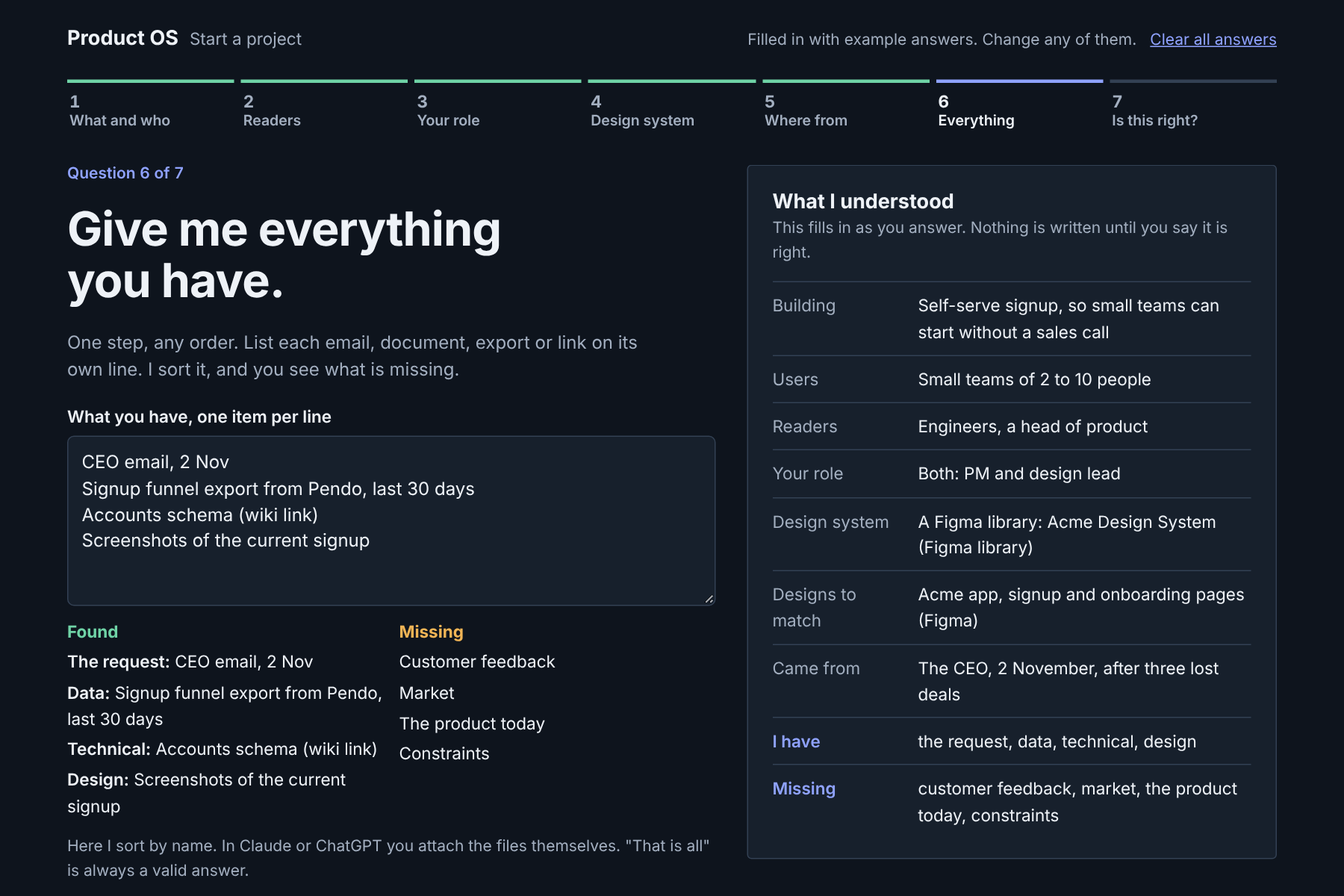
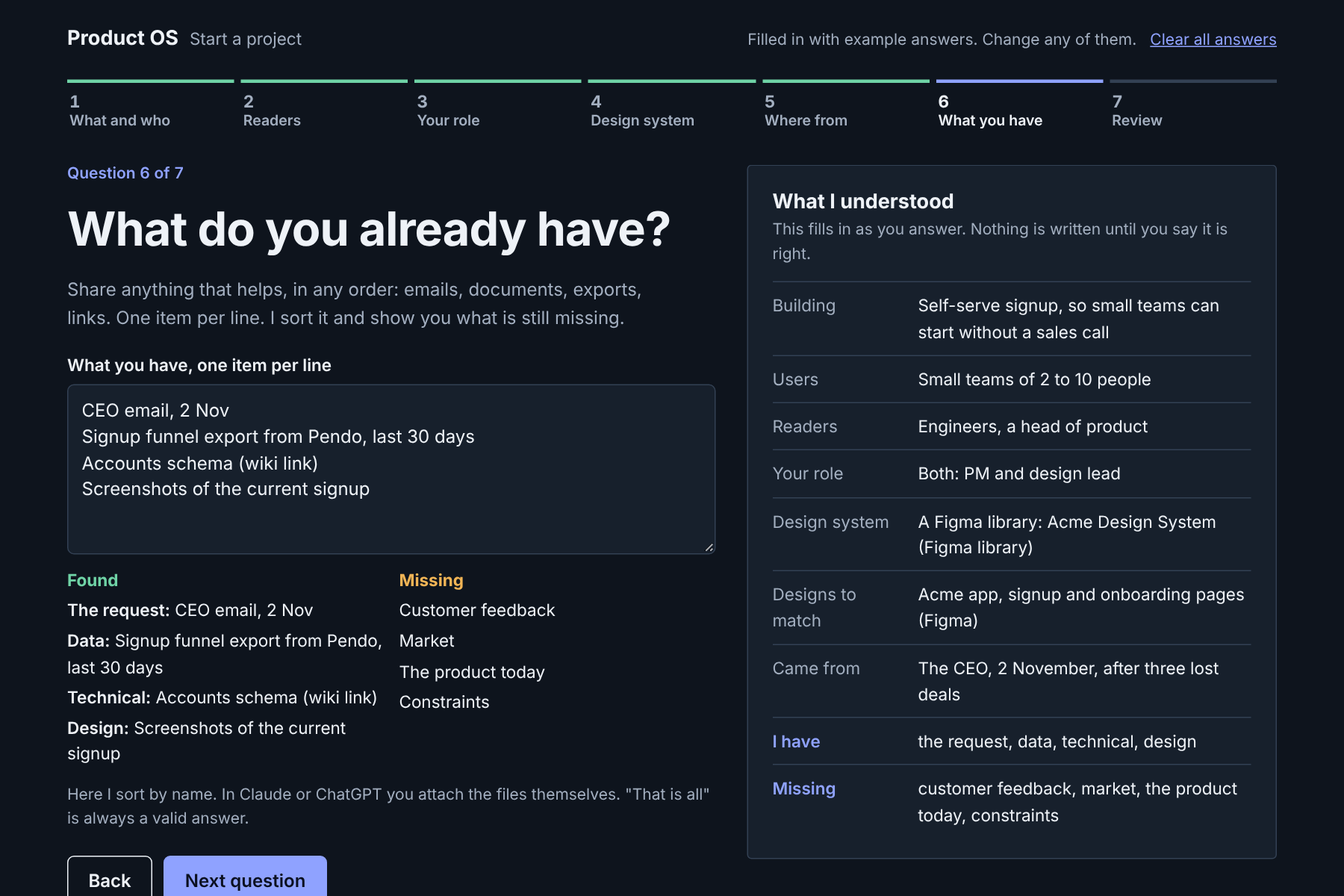
Ask as an invitation; the visual start ends on a review screen
Question 6 is 'What do you already have?' and question 7 is 'Does this
look right?'. The visual start's last screen shows four numbers, what it
noticed, a table of every document, and what it understood. New header
image of that screen on a desktop and a phone.

Claude-Session: https://claude.ai/code/session_015CywGHW2jcfc6hkS8RfYRh

diff --git a/artifact/product-os-start.html b/artifact/product-os-start.html
@@ -86,7 +86,10 @@ textarea { min-height: 9.5rem; resize: vertical; }
 .copied { margin: 0; font-weight: 600; color: var(--found); min-height: 1.5em; }
 
 .brief { background: var(--sheet); border: 1px solid var(--line); border-radius: 4px; padding: 22px 22px 18px; position: sticky; top: 16px; min-width: 0; }
-.brief h2 { margin: 0 0 2px; font: 700 1.125rem/1.2 var(--display); }
+.brief summary { list-style: none; display: flex; align-items: baseline; justify-content: space-between; gap: 12px; margin-bottom: 2px; }
+.brief summary::-webkit-details-marker { display: none; }
+.brief h2 { margin: 0; font: 700 1.125rem/1.2 var(--display); }
+#briefCount { display: none; font-size: 0.875rem; color: var(--muted); }
 .brief .sub { margin: 0 0 14px; font-size: 0.875rem; color: var(--muted); }
 .brief dl { margin: 0; display: flex; flex-direction: column; }
 .brief .row { display: grid; grid-template-columns: 7.5rem minmax(0, 1fr); gap: 10px; padding: 9px 0; border-top: 1px solid var(--line); font-size: 0.9375rem; }
@@ -94,9 +97,42 @@ textarea { min-height: 9.5rem; resize: vertical; }
 .brief dd { margin: 0; overflow-wrap: anywhere; }
 .brief dd.empty { color: var(--muted); font-style: italic; }
 .brief .row.now dt { color: var(--accent); font-weight: 600; }
+.main.overview { grid-template-columns: minmax(0, 1fr); }
+.kpis { list-style: none; margin: 0; padding: 0; display: grid; grid-template-columns: repeat(4, minmax(0, 1fr)); gap: 12px; }
+.kpis li { background: var(--sheet); border: 1px solid var(--line); border-radius: 6px; padding: 14px 16px; display: flex; flex-direction: column; gap: 2px; }
+.kpis b { font: 700 1.625rem/1.1 var(--display); font-variant-numeric: tabular-nums; }
+.kpis span { font-size: 0.875rem; color: var(--muted); }
+.notes h2, .docs h2 { margin: 0 0 8px; font: 700 1rem/1.3 var(--display); }
+.notes ul { list-style: none; margin: 0; padding: 0; display: grid; grid-template-columns: repeat(3, minmax(0, 1fr)); gap: 12px; }
+.notes li { border-left: 3px solid var(--found); background: var(--sheet); border-radius: 0 6px 6px 0; padding: 10px 14px; font-size: 0.9375rem; }
+.notes li.warn { border-left-color: var(--missing); }
+.ov { display: grid; grid-template-columns: minmax(0, 1.25fr) minmax(0, 0.75fr); gap: 28px; align-items: start; }
+.ov .brief { position: static; padding: 18px 20px 12px; }
+.ov .brief .row { padding: 7px 0; font-size: 0.875rem; grid-template-columns: 6.5rem minmax(0, 1fr); }
+.docs table { width: 100%; border-collapse: collapse; background: var(--sheet); border: 1px solid var(--line); border-radius: 6px; font-size: 0.9375rem; }
+.docs th { text-align: left; font-weight: 600; font-size: 0.8125rem; color: var(--muted); padding: 9px 14px; border-bottom: 1px solid var(--line); }
+.docs td { padding: 7px 14px; border-top: 1px solid var(--line); }
+.docs tbody tr:first-child td { border-top: 0; }
+.docs td:first-child { font-weight: 600; }
+.docs td:last-child { white-space: nowrap; color: var(--muted); font-variant-numeric: tabular-nums; }
+.docs .hint { margin-top: 10px; }
 @media (max-width: 820px) {
   .main { grid-template-columns: minmax(0, 1fr); }
-  .brief { position: static; }
+  .brief { position: static; padding: 14px 16px; }
+  .brief summary { cursor: pointer; margin: 0; }
+  .brief[open] summary { margin-bottom: 8px; }
+  #briefCount { display: inline; }
+  #briefCount::after { content: "  ▾"; }
+  .brief[open] #briefCount::after { content: "  ▴"; }
+  .kpis { grid-template-columns: repeat(2, minmax(0, 1fr)); }
+  .notes ul, .ov { grid-template-columns: minmax(0, 1fr); }
+  .ov { order: 2; gap: 16px; } .notes { order: 3; } .after { order: 4; }
+  .docs thead { display: none; }
+  .docs tr { display: grid; grid-template-columns: minmax(0, 1fr) auto; column-gap: 12px; padding: 9px 14px; border-top: 1px solid var(--line); }
+  .docs tbody tr:first-child { border-top: 0; }
+  .docs td { padding: 0; border: 0; }
+  .docs td:nth-child(2) { grid-row: 2; font-size: 0.875rem; color: var(--muted); }
+  .docs td:nth-child(3) { grid-row: 1 / span 2; grid-column: 2; align-self: center; }
   .steps span { display: none; }
 }
 @media (max-width: 480px) { .sorted { grid-template-columns: minmax(0, 1fr); } .brief .row { grid-template-columns: minmax(0, 1fr); gap: 2px; } }
@@ -112,7 +148,7 @@ textarea { min-height: 9.5rem; resize: vertical; }
 
   <ol class="steps" id="steps" aria-label="The seven start questions"></ol>
 
-  <div class="main">
+  <div class="main" id="main">
     <form class="ask" id="ask" novalidate>
       <p class="place" id="place"></p>
       <h1 id="q"></h1>
@@ -126,11 +162,11 @@ textarea { min-height: 9.5rem; resize: vertical; }
       <p class="copied" id="copied" role="status" aria-live="polite"></p>
     </form>
 
-    <aside class="brief" aria-label="What Product OS understood so far">
-      <h2>What I understood</h2>
+    <div id="briefHome"><details class="brief" id="briefBox" open>
+      <summary><h2>What I understood</h2><span id="briefCount"></span></summary>
       <p class="sub">This fills in as you answer. Nothing is written until you say it is right.</p>
       <dl id="brief"></dl>
-    </aside>
+    </details></div>
   </div>
 </div>
 
@@ -187,6 +223,7 @@ textarea { min-height: 9.5rem; resize: vertical; }
   function load() { try { var v = localStorage.getItem(KEY); return v ? JSON.parse(v) : null; } catch (e) { return null; } }
   function save() { try { localStorage.setItem(KEY, JSON.stringify(state)); } catch (e) { /* storage is optional */ } }
   function esc(s) { return String(s).replace(/[&<>"]/g, function (c) { return { "&": "&amp;", "<": "&lt;", ">": "&gt;", '"': "&quot;" }[c]; }); }
+  function listAnd(a) { return a.length < 2 ? a.join("") : a.slice(0, -1).join(", ") + " and " + a[a.length - 1]; }
   function cap(t) { return t ? t.charAt(0).toUpperCase() + t.slice(1) : t; }
   function label(list, id) { for (var i = 0; i < list.length; i++) if (list[i][0] === id) return list[i][1]; return ""; }
 
@@ -212,6 +249,36 @@ textarea { min-height: 9.5rem; resize: vertical; }
     if (state.readers.indexOf("designers") > -1) docs = docs.filter(function (d) { return d !== "Design brief" && d !== "Low-fidelity wireframes"; });
     return docs;
   }
+  var PHASE = { 1: "1 · Intake", 4: "4 · Define", 5: "5 · Design", 6: "6 · Review", 7: "7 · Deliver" };
+  function docList() {
+    var r = state.readers, eng = r.indexOf("engineers") > -1, team = eng ? "Engineers" : "You", out = [];
+    var briefFor = r.filter(function (x) { return x === "executives" || x === "client" || x === "product-lead"; }).map(function (x) { return x === "executives" ? "Executives" : x === "client" ? "Client" : "Head of product"; });
+    out.push(["Intake", "You", 1], ["PRD", team, 4], ["Project brief", eng ? "Engineers" + (briefFor.length ? ", " + briefFor.join(", ").toLowerCase() : "") : (briefFor.join(", ") || "You"), 4]);
+    out.push(["User flows", team, 5], ["Final design", team, 5], ["End-to-end prototype", r.indexOf("client") > -1 && !eng ? "Client" : team, 5]);
+    out.push(["UX writing guide", team, 6], ["Epic and tickets", team, 7]);
+    if (r.indexOf("product-lead") > -1) out.push(["Project plan", "Head of product", 4], ["Gantt chart", "Head of product", 4]);
+    if (r.indexOf("designers") > -1) out.push(["Design brief", "Designers", 5], ["Low-fidelity wireframes", "Designers", 5]);
+    var ph = { "Project plan": 4, "Gantt chart": 4, "Metrics framework": 4, "Design brief": 5, "Low-fidelity wireframes": 5, "Design critique": 6 };
+    mineList().forEach(function (d) { out.push([d, "You", ph[d] || 4]); });
+    out.sort(function (x, y) { return x[2] - y[2]; });
+    return out.map(function (d) { return [d[0], d[1], PHASE[d[2]]]; });
+  }
+  function kpis(s, docs) {
+    var answered = [state.building && state.users, state.readers.length, state.role, state.system, state.origin, s.count].filter(Boolean).length;
+    var groups = state.readers.filter(function (x) { return x !== "self"; }).length;
+    return [[answered + " of 6", "questions answered"], [(8 - s.missing.length) + " of 8", "kinds of material found"], [docs.length, "documents to be made"], [groups, groups === 1 ? "reader group" : "reader groups"]];
+  }
+  function notes(s) {
+    var out = [], r = state.readers;
+    if (s.missing.length) out.push(["warn", cap(listAnd(s.missing).toLowerCase()) + (s.missing.length === 1 ? " is" : " are") + " missing. Each gap becomes a named TBD, never a guess."]);
+    else out.push(["ok", "You shared material of every kind."]);
+    if (r.indexOf("product-lead") > -1) out.push(["ok", "A head of product reads this. The project plan and Gantt chart are linked from the epic."]);
+    else if (r.indexOf("engineers") > -1) out.push(["ok", "Engineers read this. They get one link: the epic."]);
+    else out.push(["ok", "No engineers read this yet. The epic and tickets are still written at Deliver."]);
+    if (state.system && state.system !== "none") out.push(["ok", "Every design follows " + (state.systemRef || label(SYSTEMS, state.system).toLowerCase()) + "."]);
+    else out.push(["warn", "No design system yet. Designs use plain, accessible defaults."]);
+    return out;
+  }
   function systemText() {
     if (!state.system) return "";
     if (state.system === "none") return "None yet. Designs use plain, accessible defaults.";
@@ -234,7 +301,7 @@ textarea { min-height: 9.5rem; resize: vertical; }
     { short: "Where from", q: "Where did this come from?", why: "Who asked, when, and why now: a customer, an executive, a data signal, a competitor move.",
       done: function () { return state.origin; },
       fields: function () { return text("origin", "Who asked, when, and why now", state.origin); } },
-    { short: "Everything", q: "Give me everything you have.", why: "One step, any order. List each email, document, export or link on its own line. I sort it, and you see what is missing.",
+    { short: "What you have", q: "What do you already have?", why: "Share anything that helps, in any order: emails, documents, exports, links. One item per line. I sort it and show you what is still missing.",
       done: function () { return true; },
       fields: function () {
         var s = sortEverything();
@@ -245,15 +312,17 @@ textarea { min-height: 9.5rem; resize: vertical; }
           (s.missing.map(function (m) { return "<li>" + m + "</li>"; }).join("") || "<li>Nothing.</li>") + "</ul></div></div>" +
           '<p class="hint">Here I sort by name. In Claude or ChatGPT you attach the files themselves. "That is all" is always a valid answer.</p>';
       } },
-    { short: "Is this right?", q: "Is this right?", why: "Read what I understood on the right. Below is what I will make from it. Nothing is written before your yes.",
+    { short: "Review", q: "Does this look right?", why: "Here is the project as I understood it, and what I will make from it. Nothing is written before your yes.",
       done: function () { return false; },
       fields: function () {
-        var mine = mineList();
-        return '<div class="make"><div><h2>For the team</h2>' + teamLines().map(function (l) { return "<p>" + esc(l) + "</p>"; }).join("") + "</div>" +
-          "<div><h2>For you</h2><p>" + (mine.length ? esc(mine.join(", ")) : "Nothing else. Only what the readers need.") + "</p></div>" +
-          "<div><h2>Not made</h2><p>RACI chart, risk register, UX review. Ask for any of them, any time.</p></div></div>" +
-          '<p class="hint">Copy the brief, then paste it into your Product OS project in Claude or ChatGPT. It starts at intake, with these answers already saved.</p>' +
-          '<div class="nav"><a class="btn" href="https://claude.ai/new" target="_blank" rel="noopener">Open Claude</a><a class="btn" href="https://chatgpt.com/" target="_blank" rel="noopener">Open ChatGPT</a></div>';
+        var s = sortEverything(), docs = docList(), k = kpis(s, docs);
+        return '<ul class="kpis">' + k.map(function (t) { return "<li><b>" + t[0] + "</b><span>" + t[1] + "</span></li>"; }).join("") + "</ul>" +
+          '<section class="notes" aria-label="What I noticed"><h2>What I noticed</h2><ul>' + notes(s).map(function (n) { return '<li class="' + n[0] + '">' + esc(n[1]) + "</li>"; }).join("") + "</ul></section>" +
+          '<div class="ov"><section class="docs"><h2>What I will make</h2><table><thead><tr><th scope="col">Document</th><th scope="col">For</th><th scope="col">Phase</th></tr></thead><tbody>' +
+          docs.map(function (d) { return "<tr><td>" + d[0] + "</td><td>" + d[1] + "</td><td>" + d[2] + "</td></tr>"; }).join("") +
+          '</tbody></table><p class="hint">Not made: RACI chart, risk register, UX review. Ask for any of them, any time.</p></section><div id="briefSlot"></div></div>' +
+          '<p class="hint after">Copy the brief, then paste it into your Product OS project in Claude or ChatGPT. It starts at intake, with these answers already saved.</p>' +
+          '<div class="nav after"><a class="btn" href="https://claude.ai/new" target="_blank" rel="noopener">Open Claude</a><a class="btn" href="https://chatgpt.com/" target="_blank" rel="noopener">Open ChatGPT</a></div>';
       } }
   ];
 
@@ -276,6 +345,8 @@ textarea { min-height: 9.5rem; resize: vertical; }
       ["I have", s.count ? (have.join(", ") || "other material") : "", 5],
       ["Missing", s.count ? (s.missing.join(", ").toLowerCase() || "nothing") : "", 5]
     ];
+    var filled = rows.slice(0, 8).filter(function (r) { return r[1]; }).length;
+    document.getElementById("briefCount").textContent = filled + " of 8 filled in";
     document.getElementById("brief").innerHTML = rows.map(function (r) {
       return '<div class="row' + (r[2] === step ? " now" : "") + '"><dt>' + r[0] + "</dt><dd" + (r[1] ? "" : ' class="empty"') + ">" + (r[1] ? esc(r[1]) : "Not answered yet") + "</dd></div>";
     }).join("");
@@ -292,6 +363,9 @@ textarea { min-height: 9.5rem; resize: vertical; }
     document.getElementById("q").textContent = s.q;
     document.getElementById("why").textContent = s.why;
     document.getElementById("fields").innerHTML = s.fields();
+    var box = document.getElementById("briefBox"), slot = document.getElementById("briefSlot");
+    (slot || document.getElementById("briefHome")).appendChild(box);
+    document.getElementById("main").className = "main" + (last ? " overview" : "");
     document.getElementById("back").disabled = step === 0;
     document.getElementById("next").textContent = last ? "Yes, copy the brief" : "Next question";
     document.getElementById("hint").textContent = last ? "" : "\"I don't know yet\" is a valid answer. Leave it empty and go on.";
@@ -362,6 +436,14 @@ textarea { min-height: 9.5rem; resize: vertical; }
   });
   document.getElementById("back").addEventListener("click", function () { if (step > 0) { step--; render(); } });
   document.getElementById("steps").addEventListener("click", function (e) { var b = e.target.closest("button"); if (b) { step = +b.getAttribute("data-step"); render(); } });
+  var wide = window.matchMedia("(min-width: 821px)"), userOpen = false;
+  function syncBrief() { document.getElementById("briefBox").open = wide.matches || userOpen; }
+  document.getElementById("briefBox").querySelector("summary").addEventListener("click", function (e) {
+    if (wide.matches) { e.preventDefault(); return; }
+    userOpen = !document.getElementById("briefBox").open;
+  });
+  if (wide.addEventListener) wide.addEventListener("change", syncBrief);
+  syncBrief();
   document.getElementById("clear").addEventListener("click", function () { state = copy(EMPTY); step = 0; save(); render(); document.getElementById("building").focus(); });
   render();
 })();

diff --git a/README.md b/README.md
@@ -4,9 +4,9 @@
 
 [![License: MIT](https://img.shields.io/badge/License-MIT-blue.svg)](LICENSE)
 
-![Product OS on a desktop screen and on a phone: the visual start page asks "Give me everything you have", sorts the answer into Found and Missing, and fills in a brief titled "What I understood"](docs/images/hero.jpg)
+![Product OS on a desktop screen and on a phone, both on the review screen "Does this look right?": four numbers, what it noticed, a table of the documents it will make, and what it understood](docs/images/hero.jpg)
 
-*The visual start (path B), on a computer and on a phone. Screenshots of `artifact/product-os-start.html`.*
+*The review screen of the visual start (path B), on a computer and on a phone. Screenshots of `artifact/product-os-start.html`.*
 
 ## What is Product OS?
 
@@ -117,11 +117,11 @@ Full steps and tips: [Product OS in claude.ai](claude-ai/README.md).
 
 For PMs who want a page, not a chat, for the first questions.
 
-![The visual start page at question 6 of 7, "Give me everything you have": the items sorted into Found and Missing on the left, and the brief filling in on the right](docs/images/visual-start.png)
+![The visual start page at question 6 of 7, "What do you already have?": the items sorted into Found and Missing on the left, and the brief filling in on the right](docs/images/visual-start.png)
 
 1. Download [`artifact/product-os-start.html`](artifact/product-os-start.html).
 2. In Claude, attach the file and say: *"Publish this page as an artifact."*
-3. Open the artifact and answer the seven questions. The brief fills in beside you.
+3. Open the artifact and answer the seven questions. The brief fills in beside you, and the last screen is a review of the whole project: four numbers, what it noticed, and a table of every document it will make.
 4. Press **Yes, copy the brief**.
 5. Paste the brief into your Product OS project in Claude chat (path A) or ChatGPT (path C), and attach the files you listed. The chat shows the playback and waits for your yes.
 
@@ -202,8 +202,8 @@ Product OS does not produce every document it can. It asks guided questions, one
 | 3 | **What is your role on this project?** PM, design lead, both, founder | The documents recommended for you |
 | 4 | **Is there a design system to follow, and are there existing designs to match?** Each can be in Figma, in Claude Design, or both | Every design Product OS or you make, in Claude Design or in Figma, follows the system and matches the existing pages: the design brief, wireframes, prototype and final design, and the components named in tickets |
 | 5 | **Where did this come from?** | The origin of the initiative, stated plainly in the intake |
-| 6 | **Give me everything you have.** One step: emails, proposals, customer feedback, analytics, existing PRDs, the tech stack, schemas, existing designs | Product OS sorts it and answers with **Found** and **Missing**. "That is all" is always a valid answer. |
-| 7 | **Is this right?** The playback: what it understood and what it will make | Nothing is written before your yes |
+| 6 | **What do you already have?** One step: emails, proposals, customer feedback, analytics, existing PRDs, the tech stack, schemas, existing designs | Product OS sorts it and answers with **Found** and **Missing**. "That is all" is always a valid answer. |
+| 7 | **Does this look right?** The playback: what it understood and what it will make | Nothing is written before your yes |
 
 Questions 2, 3 and 4 are saved for your team. On the next project they become one line to confirm, and you answer four questions.
 

diff --git a/.claude/skills/engineering-handoff.md b/.claude/skills/engineering-handoff.md
@@ -27,7 +27,7 @@ Product OS asks, it does not assume. This skill covers the questions at the star
 
 1. **One question at a time.** Wait for the answer before asking the next. Never show a wall of questions.
 2. **Say where the PM is.** Every question opens with its place: "Question 2 of 7".
-3. **Short numbered options, the recommended one marked.** The PM can answer with a number, "recommended", or their own words.
+3. **Short numbered options, the recommended one marked.** The PM can answer with a number, "recommended", or their own words. Word every question as an invitation ("What do you already have?"), never as a command.
 4. **Never ask for what is saved.** A saved answer is confirmed in one line, not asked again.
 5. **Confirm before writing.** Nothing is written until the PM accepts the playback (question 7).
 
@@ -44,8 +44,8 @@ Ask at the start of a project, before intake and before any document is written.
 | 3 | **What is your role on this project?** Product manager · design lead · both · founder · something else. | The documents recommended for the PM |
 | 4 | **Is there a design system to follow, and are there existing designs to match?** Each can be in Figma, in Claude Design, or both (below). | Every design Product OS or the PM makes, in Claude Design or in Figma: the design brief, wireframes, prototype and final design, and the components named in tickets |
 | 5 | **Where did this come from?** Who asked, when, and why now: a customer, an executive, a data signal, a competitor move. | Intake: the origin of the initiative, stated plainly |
-| 6 | **Give me everything you have.** One step, any order (below). | The evidence everything else is written from |
-| 7 | **Is this right?** The playback (below). | The PM confirms what was understood and what will be made |
+| 6 | **What do you already have?** One step, any order (below). | The evidence everything else is written from |
+| 7 | **Does this look right?** The playback (below). | The PM confirms what was understood and what will be made |
 
 "Who will use it" is the product's users. "Who will read what I write" is the people who receive the documents. Keep the two apart in every question and every document.
 
@@ -127,9 +127,9 @@ design_system:
       note: "Signup and onboarding pages"
 ```
 
-### Question 6: Give Me Everything
+### Question 6: What You Already Have
 
-One step, not one question per kind of document. The PM drops files, links and pasted text in any order. Product OS reads all of it, sorts it into the kinds below, and answers with one list:
+Ask it as an invitation, never as a demand: "What do you already have?" One step, not one question per kind of document. The PM drops files, links and pasted text in any order. Product OS reads all of it, sorts it into the kinds below, and answers with one list:
 
 ```
 Found
@@ -185,7 +185,7 @@ Here is what I will make
 3. For you: design brief, design critique, metrics framework
 4. Not made: RACI chart, risk register, UX review. Ask for any of them, any time.
 
-Is this right? Say yes, or tell me what to change.
+Does this look right? Say yes, or tell me what to change.
 ```
 
 The PM can change what is made in four ways:

diff --git a/chatgpt/pack/03-handoff.md b/chatgpt/pack/03-handoff.md
@@ -41,7 +41,7 @@ Product OS asks, it does not assume. This skill covers the questions at the star
 
 1. **One question at a time.** Wait for the answer before asking the next. Never show a wall of questions.
 2. **Say where the PM is.** Every question opens with its place: "Question 2 of 7".
-3. **Short numbered options, the recommended one marked.** The PM can answer with a number, "recommended", or their own words.
+3. **Short numbered options, the recommended one marked.** The PM can answer with a number, "recommended", or their own words. Word every question as an invitation ("What do you already have?"), never as a command.
 4. **Never ask for what is saved.** A saved answer is confirmed in one line, not asked again.
 5. **Confirm before writing.** Nothing is written until the PM accepts the playback (question 7).
 
@@ -58,8 +58,8 @@ Ask at the start of a project, before intake and before any document is written.
 | 3 | **What is your role on this project?** Product manager · design lead · both · founder · something else. | The documents recommended for the PM |
 | 4 | **Is there a design system to follow, and are there existing designs to match?** Each can be in Figma, in Claude Design, or both (below). | Every design Product OS or the PM makes, in Claude Design or in Figma: the design brief, wireframes, prototype and final design, and the components named in tickets |
 | 5 | **Where did this come from?** Who asked, when, and why now: a customer, an executive, a data signal, a competitor move. | Intake: the origin of the initiative, stated plainly |
-| 6 | **Give me everything you have.** One step, any order (below). | The evidence everything else is written from |
-| 7 | **Is this right?** The playback (below). | The PM confirms what was understood and what will be made |
+| 6 | **What do you already have?** One step, any order (below). | The evidence everything else is written from |
+| 7 | **Does this look right?** The playback (below). | The PM confirms what was understood and what will be made |
 
 "Who will use it" is the product's users. "Who will read what I write" is the people who receive the documents. Keep the two apart in every question and every document.
 
@@ -141,9 +141,9 @@ design_system:
       note: "Signup and onboarding pages"
 ```
 
-### Question 6: Give Me Everything
+### Question 6: What You Already Have
 
-One step, not one question per kind of document. The PM drops files, links and pasted text in any order. Product OS reads all of it, sorts it into the kinds below, and answers with one list:
+Ask it as an invitation, never as a demand: "What do you already have?" One step, not one question per kind of document. The PM drops files, links and pasted text in any order. Product OS reads all of it, sorts it into the kinds below, and answers with one list:
 
 ```
 Found
@@ -199,7 +199,7 @@ Here is what I will make
 3. For you: design brief, design critique, metrics framework
 4. Not made: RACI chart, risk register, UX review. Ask for any of them, any time.
 
-Is this right? Say yes, or tell me what to change.
+Does this look right? Say yes, or tell me what to change.
 ```
 
 The PM can change what is made in four ways:

diff --git a/.claude/agents/guide.md b/.claude/agents/guide.md
@@ -145,8 +145,8 @@ On a new project, before intake and before any document is written, ask the seve
 3. **What is your role on this project?** Product manager, design lead, both, founder, or something else. The answer sets the documents recommended for the PM.
 4. **Is there a design system to follow, and are there existing designs to match?** Two parts. The design system: a Figma library, a design system in Claude Design, both, a coded component library, or none yet. The existing designs: files in Figma, designs in Claude Design, both, screenshots, or none. Take the links or names, read them (the Figma Agent reads Figma through the Figma MCP), and with two sources ask which one wins. Every design made after this, by Product OS or by the PM, in Claude Design or in Figma, follows the system and matches the existing designs.
 5. **Where did this come from?** Who asked, when, and why now.
-6. **Give me everything you have.** One step. The PM drops files, links and pasted text in any order. Sort them into the kinds in the skill (request, customer feedback, market, data, product today, technical, design, constraints) and answer with one list: **Found** and **Missing**. Never ask for the kinds one by one. "That is all" never blocks: record the missing kinds under `not_provided`.
-7. **Is this right?** The playback: one screen with what was understood (building, users, readers and role, design system, origin, found and missing) and what will be made (for each reader group, for the PM, and what is not made). Nothing is written before the PM says yes.
+6. **What do you already have?** Asked as an invitation, in one step. The PM drops files, links and pasted text in any order. Sort them into the kinds in the skill (request, customer feedback, market, data, product today, technical, design, constraints) and answer with one list: **Found** and **Missing**. Never ask for the kinds one by one. "That is all" never blocks: record the missing kinds under `not_provided`.
+7. **Does this look right?** The playback: one screen with what was understood (building, users, readers and role, design system, origin, found and missing) and what will be made (for each reader group, for the PM, and what is not made). Nothing is written before the PM says yes.
 
 **Readers, role and the design system are saved for the team** under `audience` and `design_system` in `product-os.config.yaml`. When they are saved, questions 2, 3 and 4 become one line to confirm, and the project has four start questions.
 

diff --git a/chatgpt/pack/02-guided-workflow.md b/chatgpt/pack/02-guided-workflow.md
@@ -654,8 +654,8 @@ On a new project, before intake and before any document is written, ask the seve
 3. **What is your role on this project?** Product manager, design lead, both, founder, or something else. The answer sets the documents recommended for the PM.
 4. **Is there a design system to follow, and are there existing designs to match?** Two parts. The design system: a Figma library, a design system in Claude Design, both, a coded component library, or none yet. The existing designs: files in Figma, designs in Claude Design, both, screenshots, or none. Take the links or names, read them (the Figma Agent reads Figma through the Figma MCP), and with two sources ask which one wins. Every design made after this, by Product OS or by the PM, in Claude Design or in Figma, follows the system and matches the existing designs.
 5. **Where did this come from?** Who asked, when, and why now.
-6. **Give me everything you have.** One step. The PM drops files, links and pasted text in any order. Sort them into the kinds in the skill (request, customer feedback, market, data, product today, technical, design, constraints) and answer with one list: **Found** and **Missing**. Never ask for the kinds one by one. "That is all" never blocks: record the missing kinds under `not_provided`.
-7. **Is this right?** The playback: one screen with what was understood (building, users, readers and role, design system, origin, found and missing) and what will be made (for each reader group, for the PM, and what is not made). Nothing is written before the PM says yes.
+6. **What do you already have?** Asked as an invitation, in one step. The PM drops files, links and pasted text in any order. Sort them into the kinds in the skill (request, customer feedback, market, data, product today, technical, design, constraints) and answer with one list: **Found** and **Missing**. Never ask for the kinds one by one. "That is all" never blocks: record the missing kinds under `not_provided`.
+7. **Does this look right?** The playback: one screen with what was understood (building, users, readers and role, design system, origin, found and missing) and what will be made (for each reader group, for the PM, and what is not made). Nothing is written before the PM says yes.
 
 **Readers, role and the design system are saved for the team** under `audience` and `design_system` in `product-os.config.yaml`. When they are saved, questions 2, 3 and 4 become one line to confirm, and the project has four start questions.
 

diff --git a/artifact/README.md b/artifact/README.md
@@ -4,12 +4,12 @@
 
 ## What It Looks Like
 
-![The visual start page at question 6 of 7, "Give me everything you have": the items sorted into Found and Missing on the left, and the brief filling in on the right](../docs/images/visual-start.png)
+![The review screen on a desktop screen and on a phone: four numbers, what it noticed, a table of the documents it will make, and what it understood](../docs/images/hero.jpg)
 
-1. **Seven questions, one per screen**, each with its place ("Question 2 of 7"): what and who, readers, your role, the design system, where it came from, everything you have, and "Is this right?"
+1. **Seven questions, one per screen**, each with its place ("Question 2 of 7"): what and who, readers, your role, the design system, where it came from, what you already have, and "Does this look right?"
 2. **The brief on the right fills in as you answer.** It is the playback, built live.
-3. **"Give me everything you have" sorts what you list** into Found and Missing.
-4. **The last screen shows what will be made**: for the team, for you, and what is not made.
+3. **"What do you already have?" sorts what you list** into Found and Missing.
+4. **The last screen is a review of the project**: four numbers (questions answered, kinds of material found, documents to be made, reader groups), what it noticed, a table of every document with who it is for and its phase, and what it understood.
 5. **One button copies the brief**, and two links open Claude and ChatGPT.
 
 The page opens with example answers so you can see a finished run. "Clear all answers" starts yours.
@@ -26,7 +26,7 @@ The page opens with example answers so you can see a finished run. "Clear all an
 
 **Without Claude:** the file is one self-contained HTML page. Opening it in a browser works too.
 
-**On a phone:** the page fits a phone screen, with the brief below the question. Artifacts open in the Claude apps for iOS and Android.
+**On a phone:** the page fits a phone screen. The table becomes a list, and the brief folds into one line you can open. Artifacts open in the Claude apps for iOS and Android.
 
 ## What It Does and Does Not Do
 

diff --git a/CHANGELOG.md b/CHANGELOG.md
@@ -15,6 +15,7 @@ and this project adheres to [Semantic Versioning](https://semver.org/spec/v2.0.0
 - **Epic: readers** — a Start here line for each reader group and a closing Feedback line.
 - **Start Here** — the README opens with three steps: pick your path (Claude chat, Claude artifact, ChatGPT, Claude Code, Cursor), have these ready, follow the flow. The steps for each path come next, and everything else sits under "Reference". The design critique and UX writing pass has a section of its own.
 - **Claude artifact, the visual start** — `artifact/product-os-start.html` and `artifact/README.md`: a guided page for the seven start questions, with the brief filling in beside each question. It copies a brief in the `progress.yaml` format to paste into Claude chat or ChatGPT.
+- **Wording and the review screen** — start question 6 is asked as an invitation, "What do you already have?", and question 7 is "Does this look right?". Every question is worded as an invitation, never a command (`guided-questions.md`). The visual start ends on a review screen: four numbers, what it noticed, a table of every document with who it is for and its phase, and what it understood; on a phone the table is a list and the brief folds into one line.
 - **Header image and mobile** — the README opens with the visual start on a desktop screen and a phone (`docs/images/hero.jpg`). Start Here, `claude-ai/`, `chatgpt/` and `artifact/` say that paths A, B and C also run in the Claude and ChatGPT apps for iOS and Android. `chatgpt/README.md` covers workspaces that cannot create custom GPTs.
 - **ChatGPT** — `chatgpt/README.md`, `chatgpt/project-instructions.md` (under 8,000 characters, so it also fits a custom GPT) and `chatgpt/pack/`: the core agents, skills, formats and templates bundled into 8 files by `scripts/build-chatgpt-pack.py`, to fit a ChatGPT Project (25 files on Go and Plus) and a custom GPT (20 files).
 - **Validation** — `scripts/validate.sh` checks that every agent references the guided questions skill and that the ChatGPT pack matches its source files (17 checks).

diff --git a/chatgpt/project-instructions.md b/chatgpt/project-instructions.md
@@ -24,7 +24,7 @@ You are running **Product OS** for this team: you write the documents of product
 Follow `.claude/skills/guided-questions.md` and `.claude/skills/engineering-handoff.md`. The PM never has to ask you to ask.
 
 1. One question at a time. Open each with its place ("Question 2 of 7"). Give short numbered options and mark the recommended one.
-2. **At the start of a project, ask seven:** what are you building and who will use it · who will read what I write · what is your role · is there a design system to follow, and are there existing designs to match (in Figma, in another design tool, as screenshots, or none yet; every design then follows them) · where did this come from · give me everything you have (sort it into Found and Missing; never ask kind by kind) · the playback: what you understood and what you will make. Write nothing before the PM says yes.
+2. **At the start of a project, ask seven:** what are you building and who will use it · who will read what I write · what is your role · is there a design system to follow, and are there existing designs to match (in Figma, in another design tool, as screenshots, or none yet; every design then follows them) · where did this come from · what do you already have (asked as an invitation; take it in one step, sort it into Found and Missing, never ask kind by kind) · the playback: what you understood and what you will make. Write nothing before the PM says yes.
 3. **Before every document,** say how many questions you have (at most 5), ask the decisions the sources do not answer, and confirm what was decided before calling the document finished.
 4. **At the handoff,** confirm what each reader group gets, then show the ticket tree and get it accepted.
 5. **After the handoff,** ask what the team said, and record it.

diff --git a/chatgpt/pack/01-how-to-work.md b/chatgpt/pack/01-how-to-work.md
@@ -207,6 +207,7 @@ FILE: `.claude/skills/guided-questions.md`
 3. **Short numbered options, the recommended one marked**, with one line on why. The PM can answer with a number, "recommended", or their own words.
 4. **Ask only what changes the document.** If both answers lead to the same text, do not ask.
 5. **Never ask twice.** An answer in `progress.yaml`, in a source the PM gave, or in an approved document is used, not asked again.
+6. **Ask, do not demand.** Word each question as an invitation: "What do you already have?", not "Give me everything you have."
 
 ## What to Ask
 

diff --git a/.claude/skills/guided-questions.md b/.claude/skills/guided-questions.md
@@ -22,6 +22,7 @@
 3. **Short numbered options, the recommended one marked**, with one line on why. The PM can answer with a number, "recommended", or their own words.
 4. **Ask only what changes the document.** If both answers lead to the same text, do not ask.
 5. **Never ask twice.** An answer in `progress.yaml`, in a source the PM gave, or in an approved document is used, not asked again.
+6. **Ask, do not demand.** Word each question as an invitation: "What do you already have?", not "Give me everything you have."
 
 ## What to Ask
 
